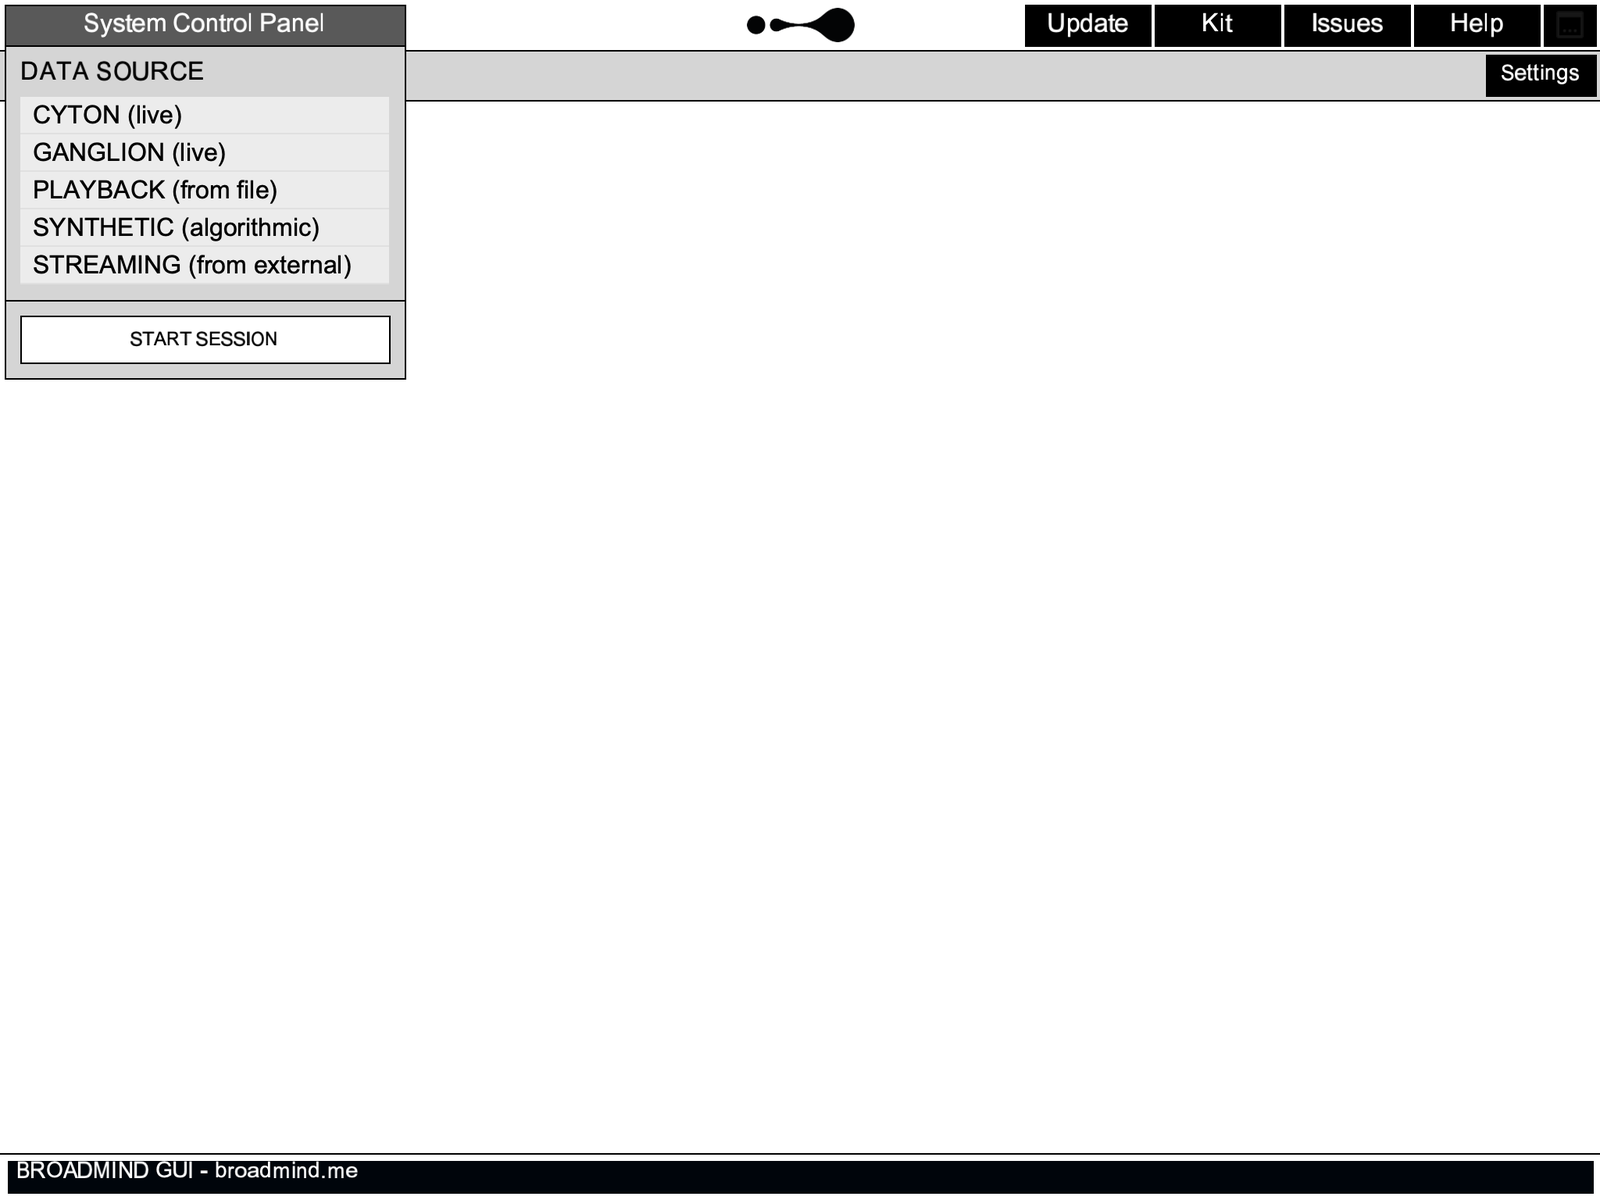
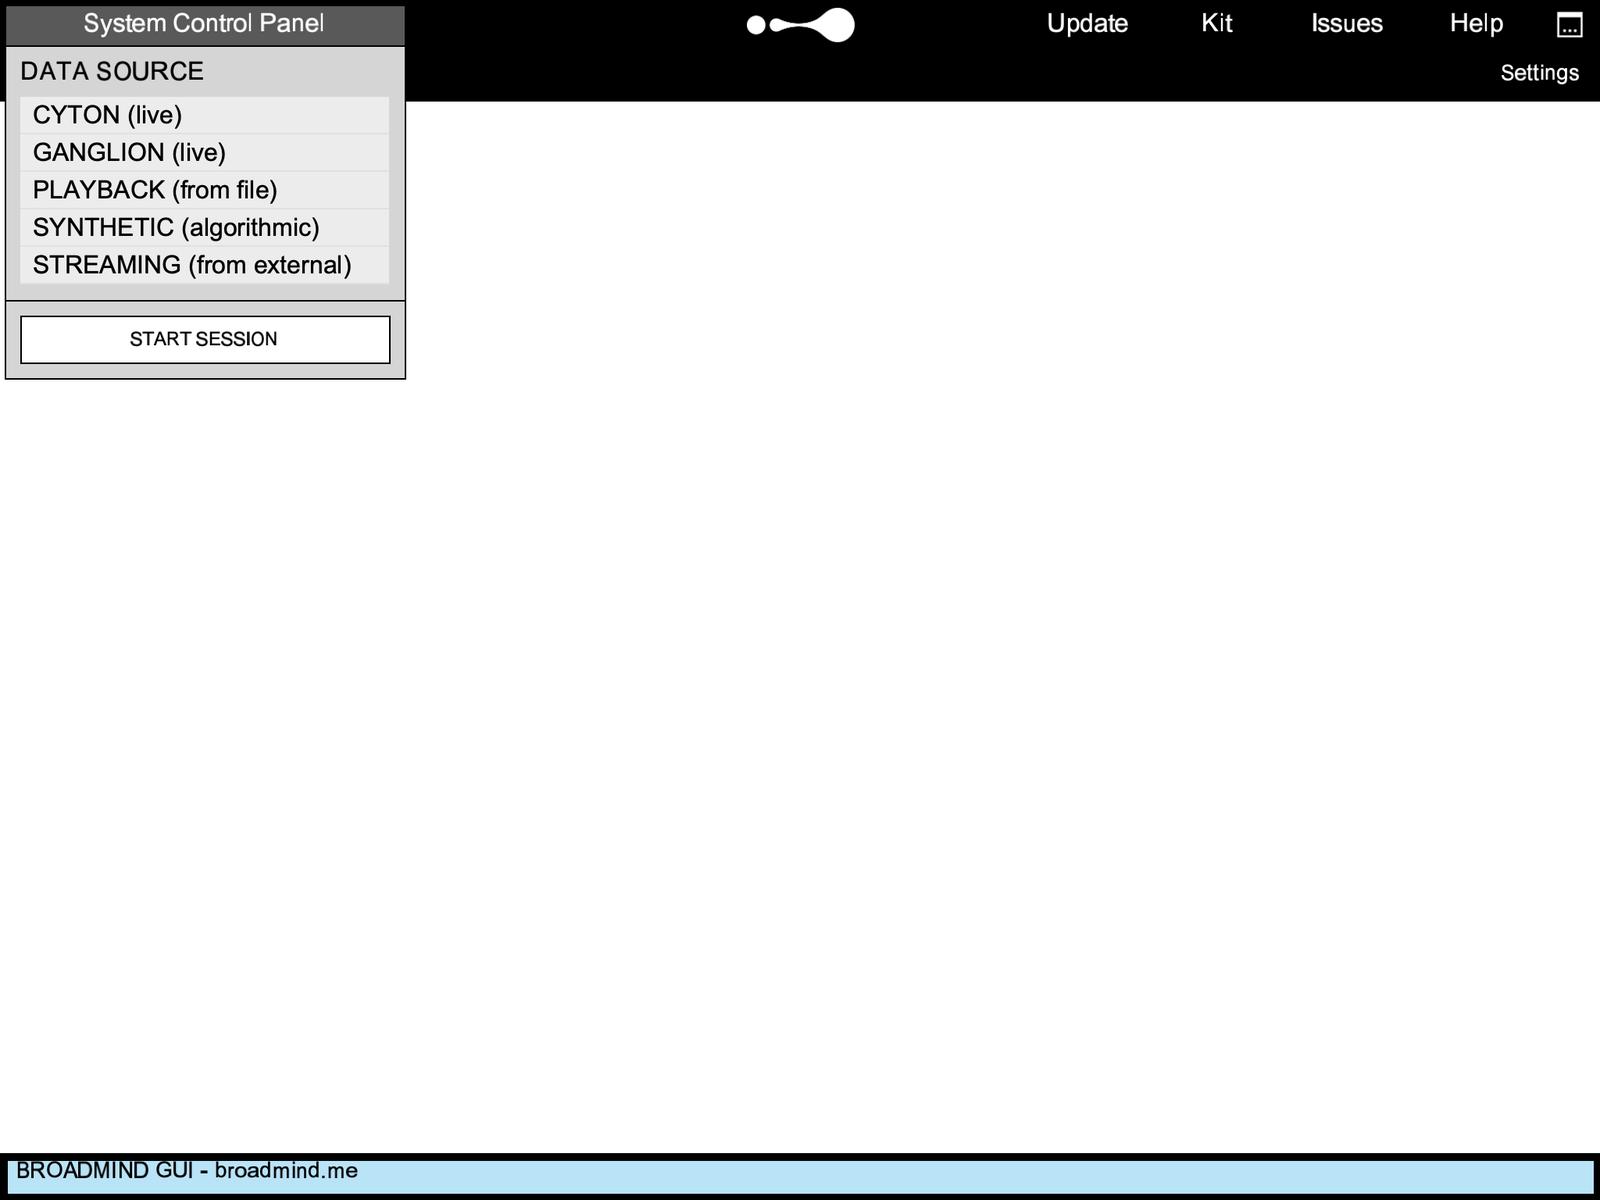
Release 0.2.0 Beta (November 2026): window and button style, live session
Window frame is one continuous ink band - top nav and sub-nav share ink with
white ink on it - over a white workspace. Buttons now have a deliberate
hierarchy: ink fill with white label for chrome, white fill with an ink hairline
and ink label for panel actions.

Version line is the fork's own: v0.2.0-beta.1, November 2026. The upstream
GitHub update check is disabled because comparing against OpenBCI's 6.0.0-beta.1
always reported a spurious 'Update Available' and pointed at a different
product.

Fixed the 'Start Data Stream' button, which passed an ink label colour onto an
ink fill and rendered as an empty black rectangle. startRunning() is reachable
only from that button, so the session started with a frozen clock and every
channel at 0.00 uV - indistinguishable from a broken instrument. With the label
fixed, playback streams all eight channels.

Adds docs/screenshots/session-playback.png, captured from a live session on
bundled real EEG, and records the style pass in BRANDING.md and CHANGELOG.md.

Changed region(s): [[0.0, 0.0, 1.0, 0.0925], [0.0, 0.9558, 1.0, 1.0]]

diff --git a/BRANDING.md b/BRANDING.md
@@ -88,10 +88,10 @@ spinner — is strictly black / white / grey / text grey.
 
 ## 5. Status
 
-The restyle **builds and runs** with Processing 4. It was run on macOS arm64 and the control panel
-was captured for [docs/screenshots](docs/screenshots). It has **not** been run against real hardware,
-and the session views have not been captured or reviewed by a designer. Treat the first pass as a
-brand application to review, not a finished redesign.
+The restyle **builds and runs** with Processing 4. It has been run on macOS arm64, and both the
+control panel and a live session are captured for [docs/screenshots](docs/screenshots) - the session
+capture streams all eight channels from a bundled recording, so the waveforms are real. It has
+**not** been run against real hardware.
 
 Build:
 
@@ -178,3 +178,36 @@ surface, white forces a dark one. `#595959` is the one value that clears 3:1 for
 (white 6.4:1, ink 3.9:1), so it is used as a functional state colour in the same spirit as the error
 red, not as a brand colour. If the buttons were ever unified onto one caption colour, this could
 become pure ink and the deviation would disappear.
+
+### 7.5 Window and button style pass
+
+The window frame is now one continuous ink band: the top navigation and the sub-navigation share
+`BLACK`, with white ink on it (21:1). Previously the two rows were a white bar over a grey bar, which
+read as two unrelated strips. The workspace beneath stays white, so the frame reads as a frame.
+
+Button hierarchy:
+
+| Role | Style |
+|---|---|
+| Chrome actions (top nav, sub-nav, collapsers) | ink fill, white label |
+| Panel actions (`START SESSION`, channel count, streamer choices) | white fill, 1px ink border, ink label |
+| State colour | `#595959` active surface - see §7.4 |
+
+### 7.6 The "Start Data Stream" button was invisible
+
+`createToggleDataStreamButton` was called with `TURN_ON_GREEN` as the fill and
+`OPENBCI_DARKBLUE` as the label colour. Once both tokens resolved to ink, the button rendered as an
+empty black rectangle. It now takes `WHITE` as the label colour.
+
+That button is not cosmetic: `startRunning()` is called from exactly one place, its release handler.
+A user who could not see it could start a session and get a frozen clock with every channel at
+`0.00 uV`, which is indistinguishable from a broken instrument. Fixing the label is what made a live
+session possible.
+
+### 7.7 Version line, and the upstream update check
+
+This build is **v0.2.0 Beta, November 2026**, its own version line. `guiVersionIsUpToDate()` compared
+that against OpenBCI's latest release (6.0.0-beta.1) and therefore always reported "Update Available",
+with a yellow banner pointing at a different product. The upstream check is now disabled and the
+button reports the BROADMIND build instead. Re-enable it against this repository's own releases when
+there are any.

diff --git a/CHANGELOG.md b/CHANGELOG.md
@@ -1,3 +1,33 @@
+# Changelog
+
+## 0.2.0 Beta - November 2026 (BROADMIND build)
+
+First BROADMIND-branded release of this fork, based on upstream OpenBCI GUI `d8543aa`.
+
+### Brand
+- Monochrome palette applied across the application: black, white, brand grey `#D5D5D5` and text
+  grey `#595959`, resolved through one palette block.
+- Window frame is a single ink band with white ink on it; workspace is white.
+- BROADMIND lockup on the splash, mark in the navigation bar, ink loading spinner.
+- Typeface resolved through `bmPFont()`: Geometria when licensed files are installed, Arial
+  otherwise. No licensed fonts are distributed with this repository.
+
+### Fixed (inherited from upstream, all fatal or blocking on Apple Silicon)
+- Bundled JNA carried an i386/x86_64-only native, so the application died at startup on arm64.
+- Bundled jSerialComm 2.6.0 carried only an `OSX/x86_64` native, so starting any session died.
+- `updateToNChan()` left the FFT array full of nulls when reached during a live session, so the
+  first data frame threw `NullPointerException`.
+- The "Start Data Stream" button drew its ink label on an ink background, making it invisible -
+  which is also why a session appeared to start with no data.
+
+### Changed
+- Version line is this fork's own: `v0.2.0-beta.1`, dated November 2026. The upstream GitHub
+  update check is disabled, because comparing against OpenBCI's release number always reported a
+  spurious "Update Available".
+- "Shop" navigation button is "Kit" and points at broadmind.me; the footer reads
+  `BROADMIND GUI - broadmind.me`.
+
+---
 # v6.0.0
 
 ### Improvements

diff --git a/README.md b/README.md
@@ -5,7 +5,8 @@
 <h1 align="center">BROADMIND GUI</h1>
 
 <p align="center">
-  Visualise and record EEG from OpenBCI-compatible hardware
+  Visualise and record EEG from OpenBCI-compatible hardware<br>
+  <strong>v0.2.0 Beta &middot; November 2026</strong>
 </p>
 
 > **Fork note.** This is a BROADMIND build of the OpenBCI GUI. The application is upstream
@@ -21,11 +22,17 @@
 ## Screenshots
 
 <p align="center">
-  <img alt="BROADMIND GUI control panel" src="docs/screenshots/control-panel.png" width="820">
+  <img alt="BROADMIND GUI system control panel" src="docs/screenshots/control-panel.png" width="780">
 </p>
+<p align="center"><em>System control panel - ink window frame, white workspace, the mark centred.</em></p>
 
-The system control panel: monochrome chrome, the BROADMIND mark centred in the navigation bar, and
-everything else black, white or grey. The workspace is white; the marks and buttons are ink.
+<p align="center">
+  <img alt="BROADMIND GUI session view with live EEG" src="docs/screenshots/session-playback.png" width="780">
+</p>
+<p align="center"><em>A session: time series, FFT and accelerometer, eight channels streaming.</em></p>
+
+Both captures are from the running application, not mockups. The session view uses a bundled
+recording, so the waveforms are real data.
 
 ## Welcome!
 
